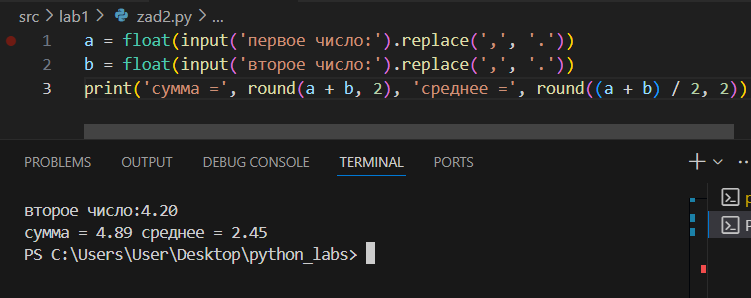
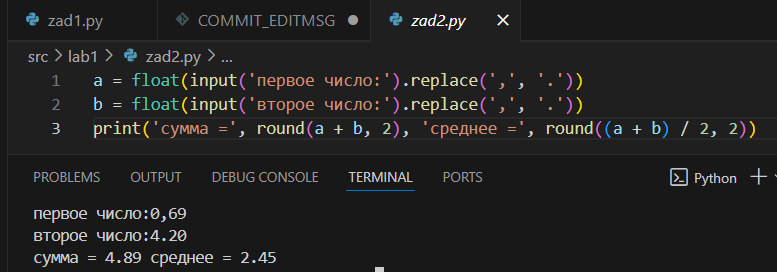
ddd

diff --git a/src/lab1/README.md b/src/lab1/README.md
@@ -1,0 +1,10 @@
+задание 1:
+![alt text](../../images/1_1.png)
+задание 2:
+![alt text](../../images/1_2.png)
+задание 3:
+![alt text](../../images/1_3.png)
+задание 4:
+![alt text](../../images/1_4.png)
+задание 5:
+![alt text](../../images/1_5.png)
